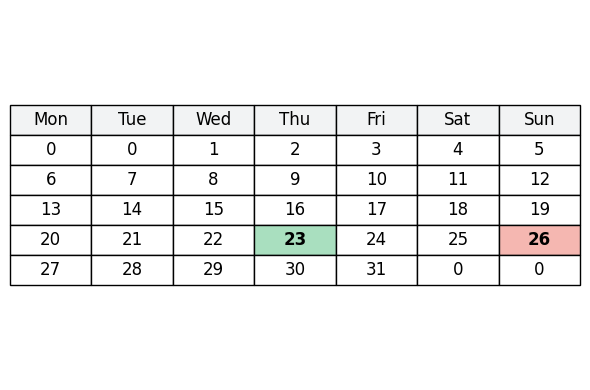
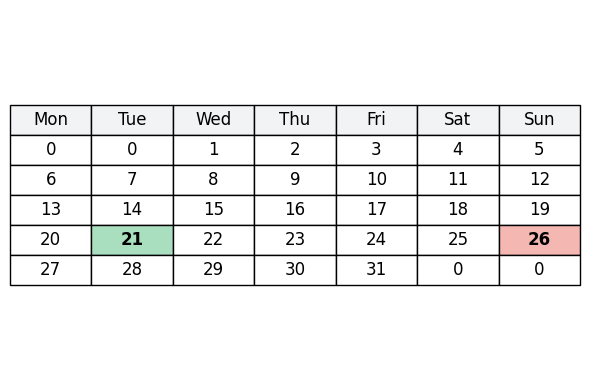
exclude weekends and public holidays

Changed region(s): [[0.4271, 0.5538, 0.5797, 0.6769], [0.1525, 0.5538, 0.3051, 0.6769]]

diff --git a/templates/index.html b/templates/index.html
@@ -14,13 +14,14 @@
 </head>
 <body>
     <h1>PD 5.4 Filing Deadline Calculator</h1>
+    <p>Source: <a href="https://legalref.judiciary.hk/lrs/common/pd/pdcontent.jsp?pdn=PD5.4.htm&lang=EN">Judiciary website</a></p>
     <form id="dateForm">
         <label for="hearing_date">Hearing Date:</label>
         <input type="date" id="hearing_date" name="hearing_date" required>
         <br>
         <label for="party_type">Party Type:</label>
         <select id="party_type" name="party_type" required>
-            <option value="72">Applicant/Appellant (72 hours before hearing)</option>
+            <option value="72">Applicant (72 hours before hearing)</option>
             <option value="48">Respondent (48 hours before hearing)</option>
         </select>
         <br>

diff --git a/app.py b/app.py
@@ -27,11 +27,23 @@ def is_public_holiday(date):
     return date.strftime("%Y-%m-%d") in public_holidays
 
 def calculate_filing_deadline(hearing_date, hours_before):
+    """
+    Calculate the filing deadline by subtracting the specified hours before the hearing date,
+    excluding Saturdays, Sundays, and public holidays.
+    If the hearing date is a public holiday or weekend, adjust it to the last working day.
+    """
+    # Adjust hearing date if it falls on a weekend or public holiday
+    while is_weekend(hearing_date) or is_public_holiday(hearing_date):
+        hearing_date -= timedelta(days=1)
+
     current_date = hearing_date
     hours_remaining = int(hours_before)
 
     while hours_remaining > 0:
+        # Subtract one hour
         current_date -= timedelta(hours=1)
+
+        # Check if the current date is a weekend or public holiday
         if not is_weekend(current_date) and not is_public_holiday(current_date):
             hours_remaining -= 1
 
